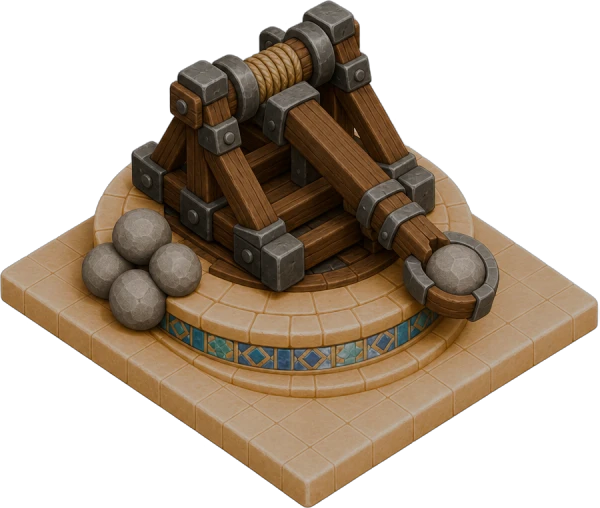
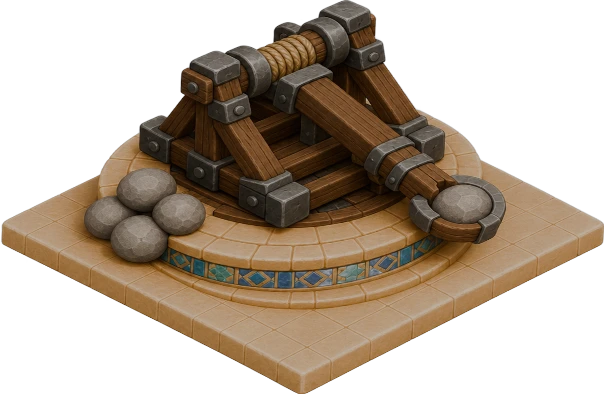
Game: buildings sit square on their tiles
The image model never draws exactly at the game's angle, so pads were tilted.
art/blender/fit_sprite.py finds each pad's ground corners and warps the picture
onto the 2:1 diamond; all 18 pictures redone with it.

Changed region(s): [[0.0, 0.0, 1.0, 1.0]]

diff --git a/art/blender/fit_sprite.py b/art/blender/fit_sprite.py
@@ -1,0 +1,78 @@
+"""
+Fits a building picture made by an image model onto the game's grid (2026-11-14).
+
+The model draws each building on its own square pad, but never at exactly the game's angle: the pad's
+diamond is a little tilted or squashed, so the building looks crooked on its tiles. This finds the pad's
+left, right and front (bottom) corners from the transparency and warps the picture (one affine map) so
+they land exactly on a 2:1 diamond: left and right corners level, the front corner in the middle and a
+quarter of the width below them. Whatever sticks out past the pad (a catapult arm, crossbows) is kept:
+the canvas grows the same on both sides, and the script prints the FIT factor the game needs
+(image width ÷ footprint width; js/ui/game.js, FIT).
+
+  Blender -b -P art/blender/fit_sprite.py -- <in.png> <out.webp> [pad width px, default 600]
+"""
+import bpy, sys
+import numpy as np
+
+argv = sys.argv[sys.argv.index("--") + 1:]
+src, dst = argv[0], argv[1]
+PW = int(argv[2]) if len(argv) > 2 else 600
+
+img = bpy.data.images.load(src)
+w, h = img.size
+px = np.array(img.pixels[:], dtype=np.float32).reshape(h, w, 4)[::-1]  # top-down rows
+a = px[..., 3] > 0.5
+ys, xs = np.nonzero(a)
+top, bot = ys.min(), ys.max()
+
+# The pad's corners: search the lower part of the object, where the pad is the widest thing.
+low = ys > top + 0.45 * (bot - top)
+lx, ly = xs[low], ys[low]
+# The pad is a slab: at its side corners the outline runs down its thickness. Its corners on the ground
+# are the bottom of those runs (and the lowest point in front), as for any block standing on the tiles.
+def corner(sel, at_bottom=True):
+    return np.array([lx[sel].mean(), ly[sel].max() if at_bottom else ly[sel].mean()])
+L = corner(lx <= lx.min() + 2)
+R = corner(lx >= lx.max() - 2)
+B = corner(ly >= ly.max() - 2)
+print("CORNERS L", L.round(1), "R", R.round(1), "B", B.round(1))
+
+# Target: L → (0, 0), R → (PW, 0), B → (PW/2, PW/4); solve the affine map src → dst.
+S = np.array([[L[0], L[1], 1], [R[0], R[1], 1], [B[0], B[1], 1]])
+D = np.array([[0, 0], [PW, 0], [PW / 2, PW / 4]])
+M = np.linalg.solve(S, D)            # 3×2: [x y 1] @ M = [x' y']
+
+# Where every opaque pixel lands, to size the canvas (symmetric round the pad).
+pts = np.stack([xs, ys, np.ones_like(xs)], 1) @ M
+over = max(0.0, -pts[:, 0].min(), pts[:, 0].max() - PW)
+x0, x1 = -over, PW + over
+y0, y1 = pts[:, 1].min(), PW / 4  # the front corner is the bottom edge
+OW, OH = int(np.ceil(x1 - x0)), int(np.ceil(y1 - y0))
+
+# Inverse map: for each output pixel, where to sample in the source (bilinear).
+A = np.vstack([M.T, [0, 0, 1]])      # [x' y' 1]^T = A [x y 1]^T
+Ai = np.linalg.inv(A)
+gx, gy = np.meshgrid(np.arange(OW) + x0 + 0.5, np.arange(OH) + y0 + 0.5)
+sx = Ai[0, 0] * gx + Ai[0, 1] * gy + Ai[0, 2] - 0.5
+sy = Ai[1, 0] * gx + Ai[1, 1] * gy + Ai[1, 2] - 0.5
+x_0 = np.floor(sx).astype(int); y_0 = np.floor(sy).astype(int)
+fx = (sx - x_0)[..., None]; fy = (sy - y_0)[..., None]
+def at(yy, xx):
+    ok = (xx >= 0) & (xx < w) & (yy >= 0) & (yy < h)
+    v = px[np.clip(yy, 0, h - 1), np.clip(xx, 0, w - 1)]
+    return v * ok[..., None]
+pre = px.copy(); pre[..., :3] *= pre[..., 3:4]   # premultiply so edges don't darken
+px = pre
+out = (at(y_0, x_0) * (1 - fx) * (1 - fy) + at(y_0, x_0 + 1) * fx * (1 - fy)
+       + at(y_0 + 1, x_0) * (1 - fx) * fy + at(y_0 + 1, x_0 + 1) * fx * fy)
+alpha = out[..., 3:4]
+out[..., :3] = np.where(alpha > 1e-4, out[..., :3] / np.maximum(alpha, 1e-4), 0)
+
+o = bpy.data.images.new("o", OW, OH, alpha=True)
+o.pixels[:] = out[::-1].ravel()
+scene = bpy.context.scene
+scene.render.image_settings.file_format = 'WEBP'
+scene.render.image_settings.color_mode = 'RGBA'
+scene.render.image_settings.quality = 90
+o.save_render(dst, scene=scene)
+print("SAVED", dst, OW, OH, "FIT", round(OW / PW, 3))

diff --git a/GAME.md b/GAME.md
@@ -323,6 +323,12 @@
    در حذف پسزمینه از دست داد (خاکستری)، و سکوی منجنیق و سربازخانه کمرنگ و نیمهشفاف شد. **Meshy حداکثر ۱۰ کار در صف
    میپذیرد**؛ بقیه باید بعد از تمام شدن قبلیها فرستاده شوند. تصویرها در فروشگاه، پنجرهی ارتقا و نبرد هم به کار میروند.
    هنوز با شکل کد: بارو (باید تکههای بههموصل ساخته شود)، چالهی پنهان، و موانع (درخت، بوته، کنده) و زمین.
+   **بناها کج روی زمین بودند (سازنده، ۲۰۲۶-۱۱-۱۴):** مدل تصویر هیچوقت دقیقاً با زاویهی بازی نمیکشد؛ لوزی سکوی هر بنا کمی
+   کج یا پهن بود (در سنگانداز یک گوشه ۴۱ پیکسل بالاتر از دیگری). **راهحل:** `art/blender/fit_sprite.py` گوشههای چپ، راست و
+   جلوی سکو را از شفافیت پیدا میکند (پایینِ ضخامت سکو، یعنی جایی که روی زمین است) و تصویر را با یک نگاشت آفین طوری میکشد
+   که دقیقاً روی لوزی ۲ به ۱ بنشیند؛ بیرونزدگیها نگه داشته میشود و ضریب FIT را چاپ میکند. هر تصویر تازهی بنا باید از این
+   اسکریپت بگذرد (`… fit_sprite.py -- art/refs/b-<kind>.png img/game/<kind>.webp 600`)، نه از `crop_webp.py`. در بازی با شبکه
+   امتحان شد: لبههای سکوها روی خطهای شبکهاند.
    و دیوها (سهبعدی متحرک لازم دارند؛ جداگانه بررسی شود)، صدا و موسیقی.
 ۵. **خانواده:** دژ خاندان و هدیه، بعد جنگ هفتگی.
 ۶. رستم، رصدخانه، بقیهی سربازها.
